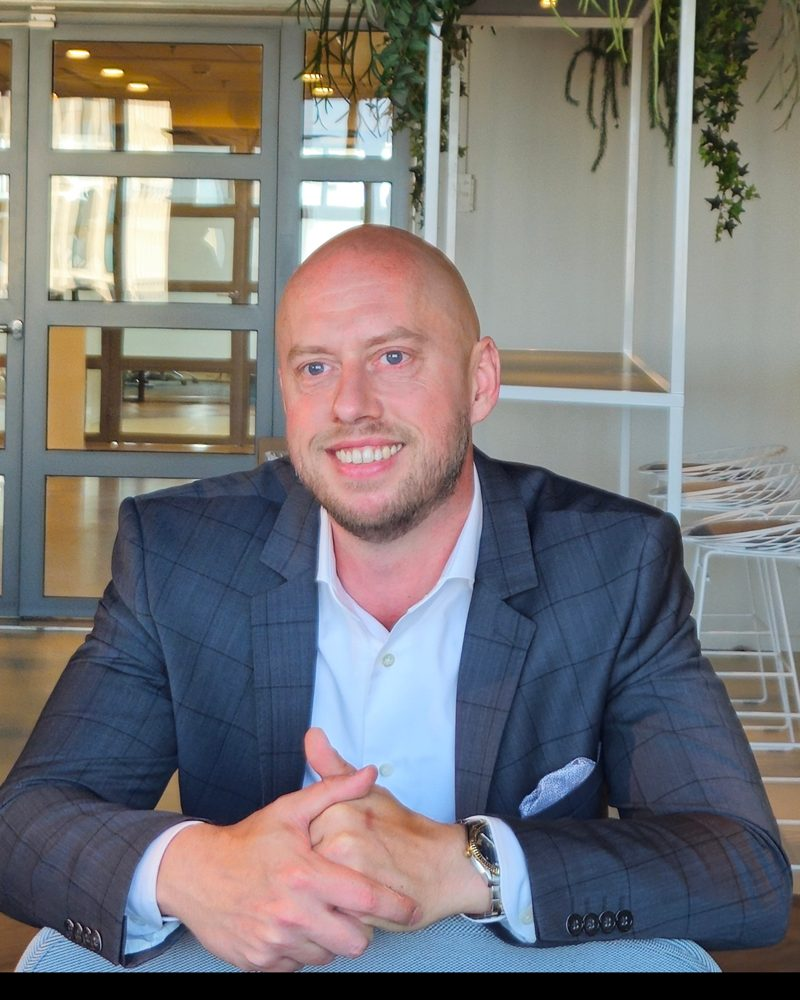
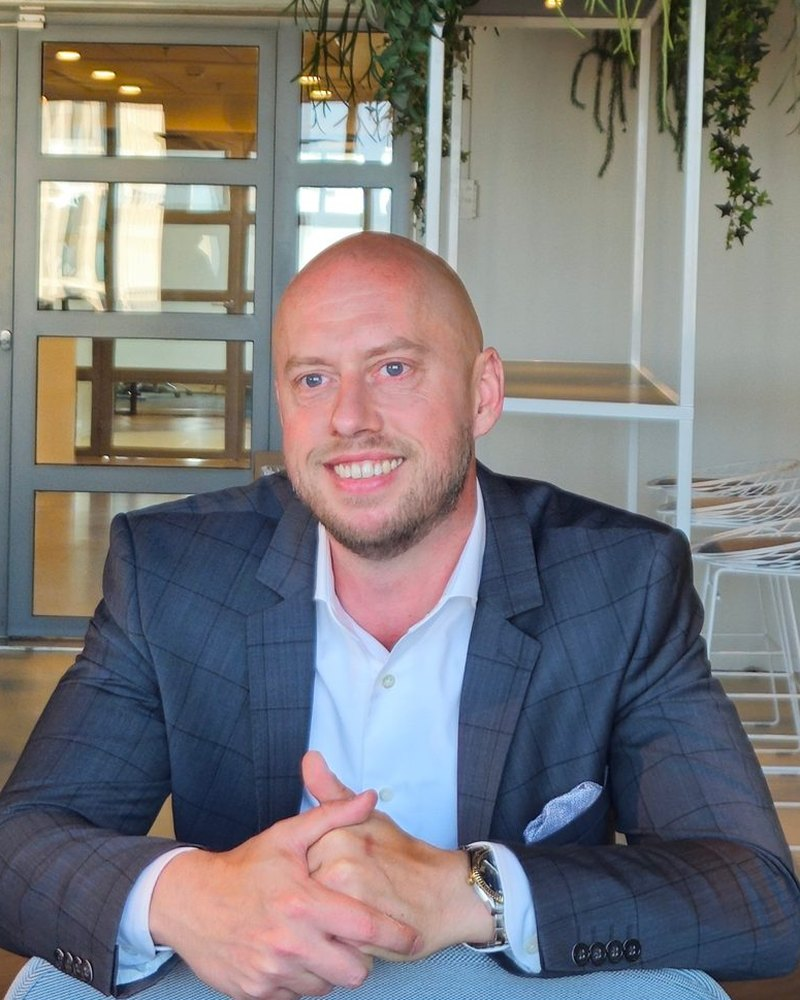
Community builders toegevoegd en copy menselijker gemaakt
Claude-Session: https://claude.ai/code/session_011WRHNhqNwiqoKEhC9onS4F

diff --git a/index.html b/index.html
@@ -116,15 +116,30 @@ table.compare{border-collapse:collapse;width:100%;min-width:720px;font-size:1rem
 .together h3{margin-bottom:8px}
 .together p{color:var(--muted);font-size:1rem}
 
-/* leaders */
+/* story */
+.story{padding-bottom:0}
+.story-grid{display:grid;grid-template-columns:1.1fr .9fr;gap:64px;align-items:center}
+.story-grid img{width:100%;height:auto;border-radius:8px}
+.story-grid figcaption{font-size:.88rem;color:var(--muted);margin-top:10px}
+.story-copy p{font-size:1.12rem}
+.sign{font-weight:700;margin-top:6px}
+.sign span{display:block;font-weight:400;color:var(--muted);font-size:.95rem}
+
+/* team */
 .leaders{background:var(--mist)}
-.leader-grid{display:grid;grid-template-columns:1fr 1fr;gap:40px;margin-top:48px}
-.leader{display:grid;grid-template-columns:200px 1fr;gap:28px;align-items:start}
-.leader img{width:200px;height:250px;object-fit:cover;object-position:center top;border-radius:8px}
-.leader h3{font-size:1.5rem}
-.leader .role{color:var(--sky);font-weight:700;margin:4px 0 14px;font-size:.98rem}
-.leader p{font-size:1rem;color:var(--muted)}
-.leader a{font-weight:700;color:var(--navy)}
+.team-grid{display:grid;grid-template-columns:repeat(4,minmax(0,1fr));gap:28px;margin-top:48px}
+.member img{width:100%;aspect-ratio:4/5;height:auto;object-fit:cover;object-position:center top;border-radius:8px;margin-bottom:18px}
+.member h3{font-size:1.3rem}
+.member .role{color:var(--sky);font-weight:700;margin:4px 0 10px;font-size:.92rem}
+.member p{font-size:.98rem;color:var(--muted)}
+.member a{font-weight:700;color:var(--navy);font-size:.95rem}
+.member .quote{color:var(--ink);font-style:italic;border-left:3px solid var(--line);padding-left:12px}
+.team-sub{margin:64px 0 0;padding-top:18px;border-top:1px solid var(--rule);font-size:.8rem;letter-spacing:.18em;text-transform:uppercase;font-weight:700;color:var(--muted)}
+
+/* samen photo */
+.samen-photo{margin-top:56px;display:grid;grid-template-columns:1fr 1fr;gap:48px;align-items:center}
+.samen-photo img{width:100%;height:auto;border-radius:8px}
+.samen-photo .together{margin-top:0;grid-template-columns:1fr;gap:24px}
 
 /* steps */
 .start-steps{list-style:none;padding:0;margin:48px 0 0;display:grid;grid-template-columns:repeat(4,1fr);gap:28px;counter-reset:s}
@@ -160,11 +175,12 @@ footer img{height:28px}
 @media (max-width:900px){
   section{padding:72px 0}
   .topbar nav{display:none}
-  .hero-grid,.problem-grid,.model-head,.ways-grid,.leader-grid,.cta-grid,.faq-grid,.not{grid-template-columns:1fr;gap:36px}
+  .hero-grid,.problem-grid,.model-head,.ways-grid,.story-grid,.samen-photo,.cta-grid,.faq-grid,.not{grid-template-columns:1fr;gap:36px}
   .hero-copy{padding-bottom:0}
   .hero-photo img{max-height:380px}
   .facts,.together,.infra-grid{grid-template-columns:1fr;gap:24px}
   .start-steps{grid-template-columns:1fr 1fr}
+  .team-grid{grid-template-columns:1fr 1fr;gap:28px 20px}
   .ladder{height:260px;gap:8px}
   .step{padding:12px}
   .example{grid-template-columns:1fr}
@@ -172,8 +188,6 @@ footer img{height:28px}
 @media (max-width:560px){
   body{font-size:17px}
   .lockup img{height:34px}
-  .leader{grid-template-columns:1fr}
-  .leader img{width:100%;max-width:300px;height:375px}
   .start-steps{grid-template-columns:1fr}
   .step span{font-size:.72rem;line-height:1.3}
   .step b{font-size:1.6rem}
@@ -190,7 +204,7 @@ footer img{height:28px}
       <nav aria-label="Hoofdmenu">
         <a href="#model">Het model</a>
         <a href="#samen">Samen sterker</a>
-        <a href="#leaders">Wie wij zijn</a>
+        <a href="#leaders">Het team</a>
         <a href="#start">Starten</a>
       </nav>
     </div>
@@ -198,9 +212,9 @@ footer img{height:28px}
       <div class="hero-copy">
         <p class="campaign">Own your book. Grow your share.</p>
         <h1>Bouw je eigen recruitment&shy;business. Zonder alles zelf op te bouwen.</h1>
-        <p class="lead">FSN Prime is het platform voor ervaren recruiters die voor zichzelf willen werken. Jij bouwt je markt en je klanten. Wij leveren de infrastructuur eromheen.</p>
+        <p class="lead">FSN Prime is een groep zelfstandige recruiters die het samen doen. Jij bouwt je eigen klanten en je eigen naam. Wij regelen de tooling, de contracten en de facturatie, en we bellen je gewoon even als je ergens mee zit.</p>
         <div class="hero-ctas">
-          <a class="btn" href="#contact">Plan een kennismaking</a>
+          <a class="btn" href="#contact">Kom een koffie drinken</a>
           <a class="btn ghost" href="#model">Bekijk het model</a>
         </div>
       </div>
@@ -212,6 +226,22 @@ footer img{height:28px}
 </header>
 
 <main>
+
+<section class="story" aria-labelledby="h-story">
+  <div class="wrap story-grid">
+    <figure style="margin:0">
+      <img src="assets/team-office.jpg" alt="Richard, Barnie en Joris samen op kantoor in Rotterdam" width="1600" height="1200">
+      <figcaption>Richard, Barnie en Joris op kantoor in de Millennium Tower, Rotterdam.</figcaption>
+    </figure>
+    <div class="story-copy">
+      <p class="prime-label">Waarom we Prime begonnen</p>
+      <h2 id="h-story">We hebben het zelf ook alleen gedaan.</h2>
+      <p style="margin-top:22px">Jarenlang werkten we als zelfstandig recruiter. Het recruiten zelf ging prima. Wat ons tijd kostte, was al het andere: contracten, tools, facturen, weken wachten op je geld. En het feit dat je niemand had om even mee te sparren.</p>
+      <p>Bij FSN hebben we dat inmiddels goed staan. Prime is onze manier om dat te delen met recruiters die hun eigen ding willen doen, maar niet in hun eentje.</p>
+      <p class="sign">Richard en Niels<span>Oprichters FSN Prime</span></p>
+    </div>
+  </div>
+</section>
 
 <section aria-labelledby="h-probleem">
   <div class="wrap problem-grid">
@@ -236,6 +266,7 @@ footer img{height:28px}
         <li><span>Facturatie en debiteuren</span><span>bij Prime geregeld</span></li>
         <li><span>30 tot 60 dagen wachten op je geld</span><span>uitbetaling binnen 48 uur</span></li>
         <li><span>Je eerste klanten vinden</span><span>start op lopende vacatures</span></li>
+        <li><span>Iemand om mee te sparren</span><span>een team dat je kent</span></li>
         <li><span>Je markt, je klanten, je resultaat</span><span><strong style="color:var(--ink)">dat blijft van jou</strong></span></li>
       </ul>
     </div>
@@ -327,7 +358,7 @@ footer img{height:28px}
       <div><h3>AI-tooling</h3><p>Noota voor gespreksverslagen en tooling voor sourcing en research.</p></div>
       <div><h3>Facturatie</h3><p>Wij factureren de klant en volgen de betaling op.</p></div>
       <div><h3>Lopende vacatures</h3><p>Finance, ERP/EPM, Cloud, IT-infra en Data/AI, waar beschikbaar.</p></div>
-      <div><h3>Sourcing vanuit Boedapest</h3><p>Extra capaciteit van ons team als dat voor een opdracht is afgesproken.</p></div>
+      <div><h3>Sourcing met Barnie</h3><p>Extra zoekkracht van ons team in Boedapest, als dat voor een opdracht is afgesproken.</p></div>
     </div>
   </div>
 </section>
@@ -351,38 +382,48 @@ footer img{height:28px}
         </tbody>
       </table>
     </div>
+    <div class="samen-photo">
+    <img src="assets/samen-werken.jpg" alt="Joris en Barnie aan het werk op kantoor" width="1600" height="1200">
     <div class="together">
       <div><h3>Meer vacatures</h3><p>Wat de een niet kan invullen, pakt een ander op. Zo laat niemand een kans liggen.</p></div>
       <div><h3>Gedeelde kennis</h3><p>Ervaren recruiters in verschillende niches leren van elkaar. Over markten, klanten en wat werkt.</p></div>
       <div><h3>Meer gewicht</h3><p>Samen sta je sterker tegenover grote bureaus, en kun je klanten meer bieden dan in je eentje.</p></div>
+      <div><h3>Niet alleen</h3><p>Een lastige klant, een twijfelgeval, een deal die bijna rond is. Er is altijd iemand die meekijkt.</p></div>
+    </div>
     </div>
   </div>
 </section>
 
 <section class="leaders" id="leaders" aria-labelledby="h-leaders">
   <div class="wrap">
-    <h2 id="h-leaders">Wie Prime trekken</h2>
-    <p class="lead" style="margin-top:18px">Wij weten hoe het is om alles alleen te doen. Daarom hebben we Prime opgezet.</p>
-    <div class="leader-grid">
-      <article class="leader">
+    <h2 id="h-leaders">De mensen achter Prime</h2>
+    <p class="lead" style="margin-top:18px">Een klein team, geen hoofdkantoor op afstand. Je weet altijd wie je kunt bellen.</p>
+    <div class="team-grid">
+      <article class="member">
         <img src="assets/richard.jpg" alt="Richard Berwald" width="800" height="1000">
-        <div>
-          <h3>Richard Berwald</h3>
-          <p class="role">Co-founder &amp; Community Lead</p>
-          <p>Ruim tien jaar recruitment, waarvan zeven als zelfstandig recruiter voor onder meer Capgemini, Accenture, Booking.com en NS. Managing Director van Financial Systems Network.</p>
-          <p>Bij Prime selecteert en begeleidt hij nieuwe partners en bouwt hij aan het netwerk.</p>
-          <a href="https://www.linkedin.com/in/richardberwald/" target="_blank" rel="noopener">Richard op LinkedIn</a>
-        </div>
+        <h3>Richard Berwald</h3>
+        <p class="role">Co-founder &amp; Community Lead</p>
+        <p>Ruim tien jaar recruitment, waarvan zeven als zelfstandige. Hij voert de eerste gesprekken en begeleidt je in je eerste maanden.</p>
+        <a href="https://www.linkedin.com/in/richardberwald/" target="_blank" rel="noopener">LinkedIn</a>
       </article>
-      <article class="leader">
+      <article class="member">
         <img src="assets/niels.jpg" alt="Niels van Unen" width="800" height="1000">
-        <div>
-          <h3>Niels van Unen</h3>
-          <p class="role">Co-founder</p>
-          <p>Oprichter van Financial Systems Network en jarenlang zelfstandig recruiter. Kent de markt voor Finance- en IT-specialisten in de Benelux van binnenuit.</p>
-          <p>Bij Prime bewaakt hij de klantrelaties en het commerciële model.</p>
-          <a href="https://www.linkedin.com/company/fsn-prime/" target="_blank" rel="noopener">FSN Prime op LinkedIn</a>
-        </div>
+        <h3>Niels van Unen</h3>
+        <p class="role">Co-founder</p>
+        <p>Oprichter van FSN en jarenlang zelfstandig recruiter. Kent de klanten, bewaakt het model en denkt mee over je commerciële aanpak.</p>
+        <a href="https://www.linkedin.com/company/fsn-prime/" target="_blank" rel="noopener">LinkedIn</a>
+      </article>
+      <article class="member">
+        <img src="assets/joris.jpg" alt="Joris" width="800" height="1000">
+        <h3>Joris</h3>
+        <p class="role">Community Builder</p>
+        <p>Houdt de zakelijke kant scherp: kosten, contracten en afspraken. Zodat jij je kunt richten op recruiten.</p>
+      </article>
+      <article class="member">
+        <img src="assets/barnie.jpg" alt="Barnie" width="800" height="1000">
+        <h3>Barnie</h3>
+        <p class="role">Community Builder</p>
+        <p>Zoekt kandidaten, legt het eerste contact via LinkedIn en zet gesprekken in de agenda. Werkt vanuit Boedapest.</p>
       </article>
     </div>
   </div>
@@ -392,10 +433,10 @@ footer img{height:28px}
   <div class="wrap">
     <h2 id="h-start">Zo start je</h2>
     <ol class="start-steps">
-      <li><h3>Kennismaking</h3><p>Een kort gesprek over je ervaring, je markt en wat je zoekt.</p></li>
+      <li><h3>Kennismaking</h3><p>Een kort gesprek met Richard over je ervaring, je markt en wat je zoekt. Bellen of koffie in Rotterdam.</p></li>
       <li><h3>Deck en onepager</h3><p>Je krijgt alles op papier, zodat je rustig kunt kiezen.</p></li>
       <li><h3>Gesprek met de oprichters</h3><p>Voor Prime spreek je Niels en Richard. Voor freelance 50/50 kun je meteen door.</p></li>
-      <li><h3>Overeenkomst en start</h3><p>Na akkoord zetten we binnen ongeveer een week je accounts klaar.</p></li>
+      <li><h3>Overeenkomst en start</h3><p>Na akkoord zetten we binnen ongeveer een week je accounts klaar en stellen we je voor aan het team.</p></li>
     </ol>
 
     <div class="not">
@@ -417,6 +458,7 @@ footer img{height:28px}
       <details><summary>Moet ik een eigen bedrijf hebben?</summary><p>Ja. Je werkt vanuit je eigen onderneming, in Nederland of een ander EU-land, met een geldig btw-nummer. Heb je die nog niet, dan helpen we je praktisch op weg.</p></details>
       <details><summary>Geldt de 75% ook op FSN-klanten?</summary><p>Nee. De groei naar 75% geldt op klanten die je zelf aanbrengt. Plaatsingen bij FSN-klanten zijn tijdens de startfase 50/50.</p></details>
       <details><summary>Kan ik naast Prime ook andere opdrachten doen?</summary><p>Ja. Je bent zelfstandig ondernemer en mag voor meerdere opdrachtgevers werken.</p></details>
+      <details><summary>Met wie heb ik contact?</summary><p>Met Richard voor de begeleiding, met Niels over klanten, met Barnie als je sourcing nodig hebt en met Joris over contracten en afspraken. Een klein team, dus je hoeft nooit lang te zoeken.</p></details>
       <details><summary>Werk ik op kantoor of remote?</summary><p>Je kiest zelf waar en wanneer je werkt. Ons kantoor in Rotterdam staat open als je er wil werken.</p></details>
       <details><summary>Wanneer krijg ik betaald?</summary><p>In principe binnen 48 uur nadat de klantfactuur verstuurd is en wij jouw factuur hebben ontvangen. FSN financiert dat voor.</p></details>
       <details><summary>Wat is het verschil tussen Prime en freelance 50/50?</summary><p>Bij freelance werk je alleen op onze vacatures, met je eigen tools. Bij Prime bouw je daarnaast je eigen klanten op en krijg je onze volledige infrastructuur.</p></details>
@@ -427,8 +469,8 @@ footer img{height:28px}
 <section class="cta" id="contact" aria-labelledby="h-contact">
   <div class="wrap cta-grid">
     <div>
-      <h2 id="h-contact">Herken je jezelf hierin?</h2>
-      <p class="lead" style="margin-top:20px">Stuur een bericht of bel ons. Dan plannen we een kort kennismakingsgesprek.</p>
+      <h2 id="h-contact">Zin om kennis te maken?</h2>
+      <p class="lead" style="margin-top:20px">Stuur Richard een bericht of bel even. Geen sollicitatieprocedure, gewoon een gesprek om te kijken of het klikt.</p>
       <div class="hero-ctas"><a class="btn" href="mailto:rberwald@financialsystemsnetwork.nl?subject=Kennismaking%20FSN%20Prime">Mail Richard</a></div>
     </div>
     <ul class="contact-list">
